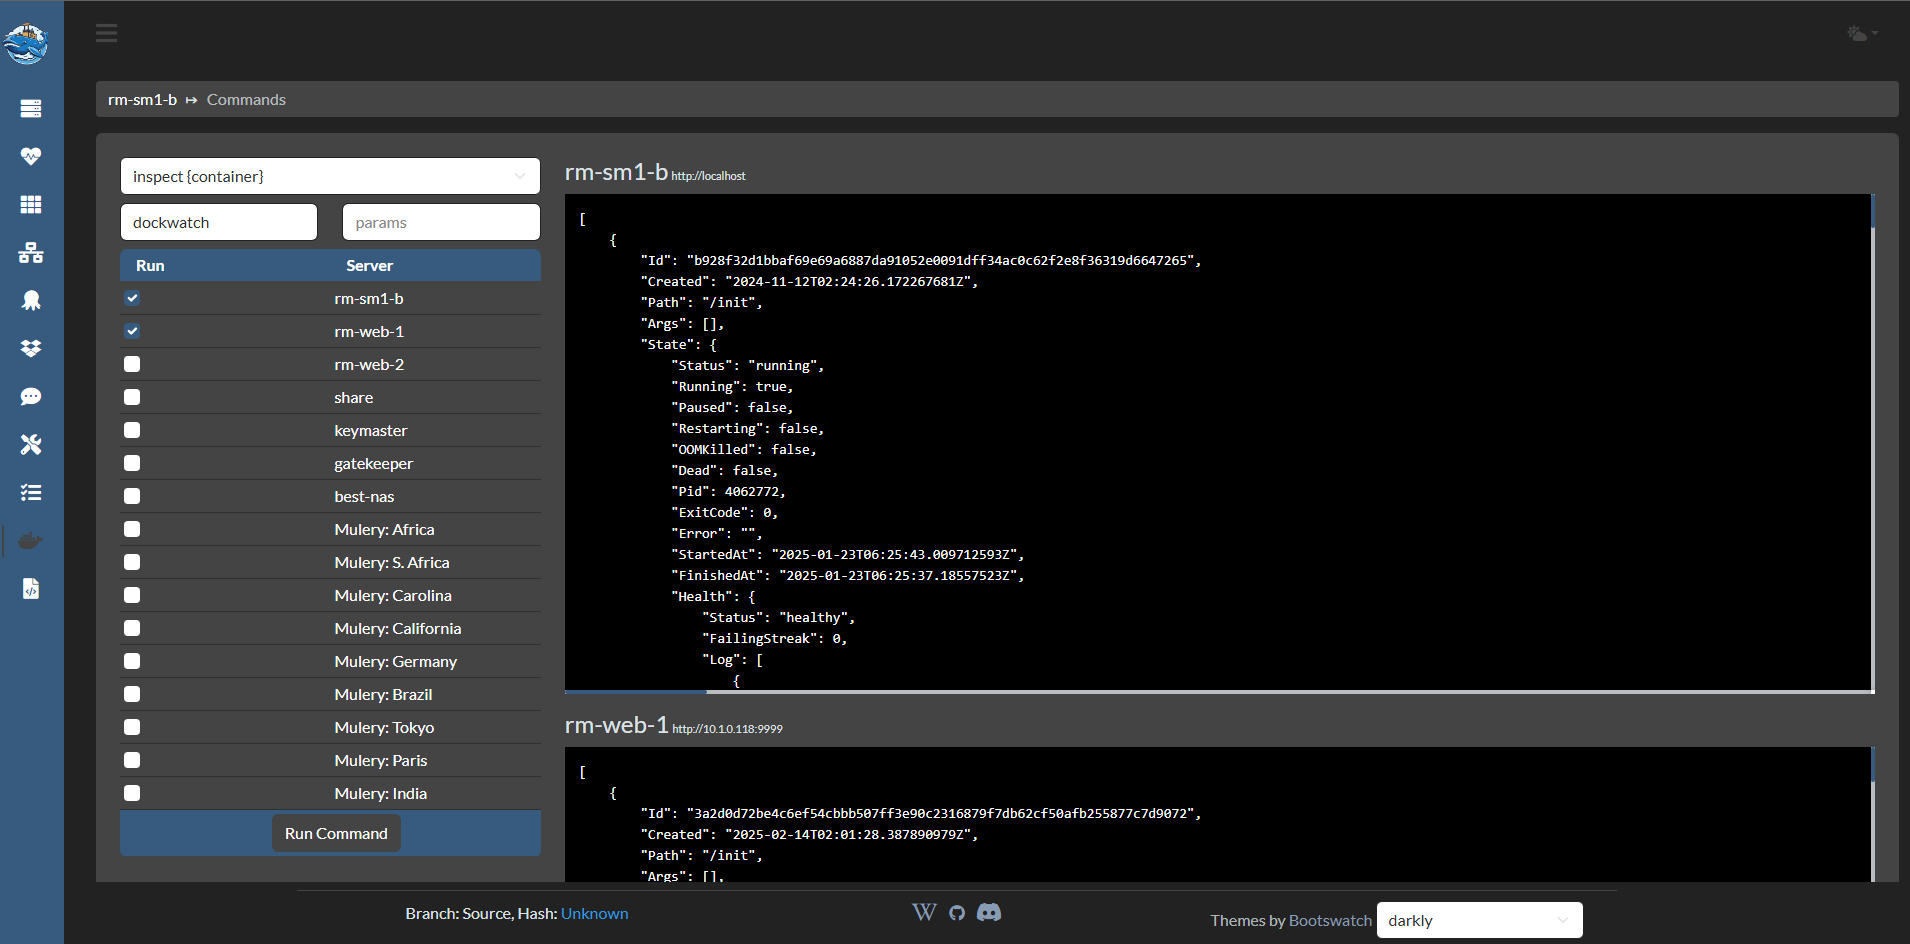
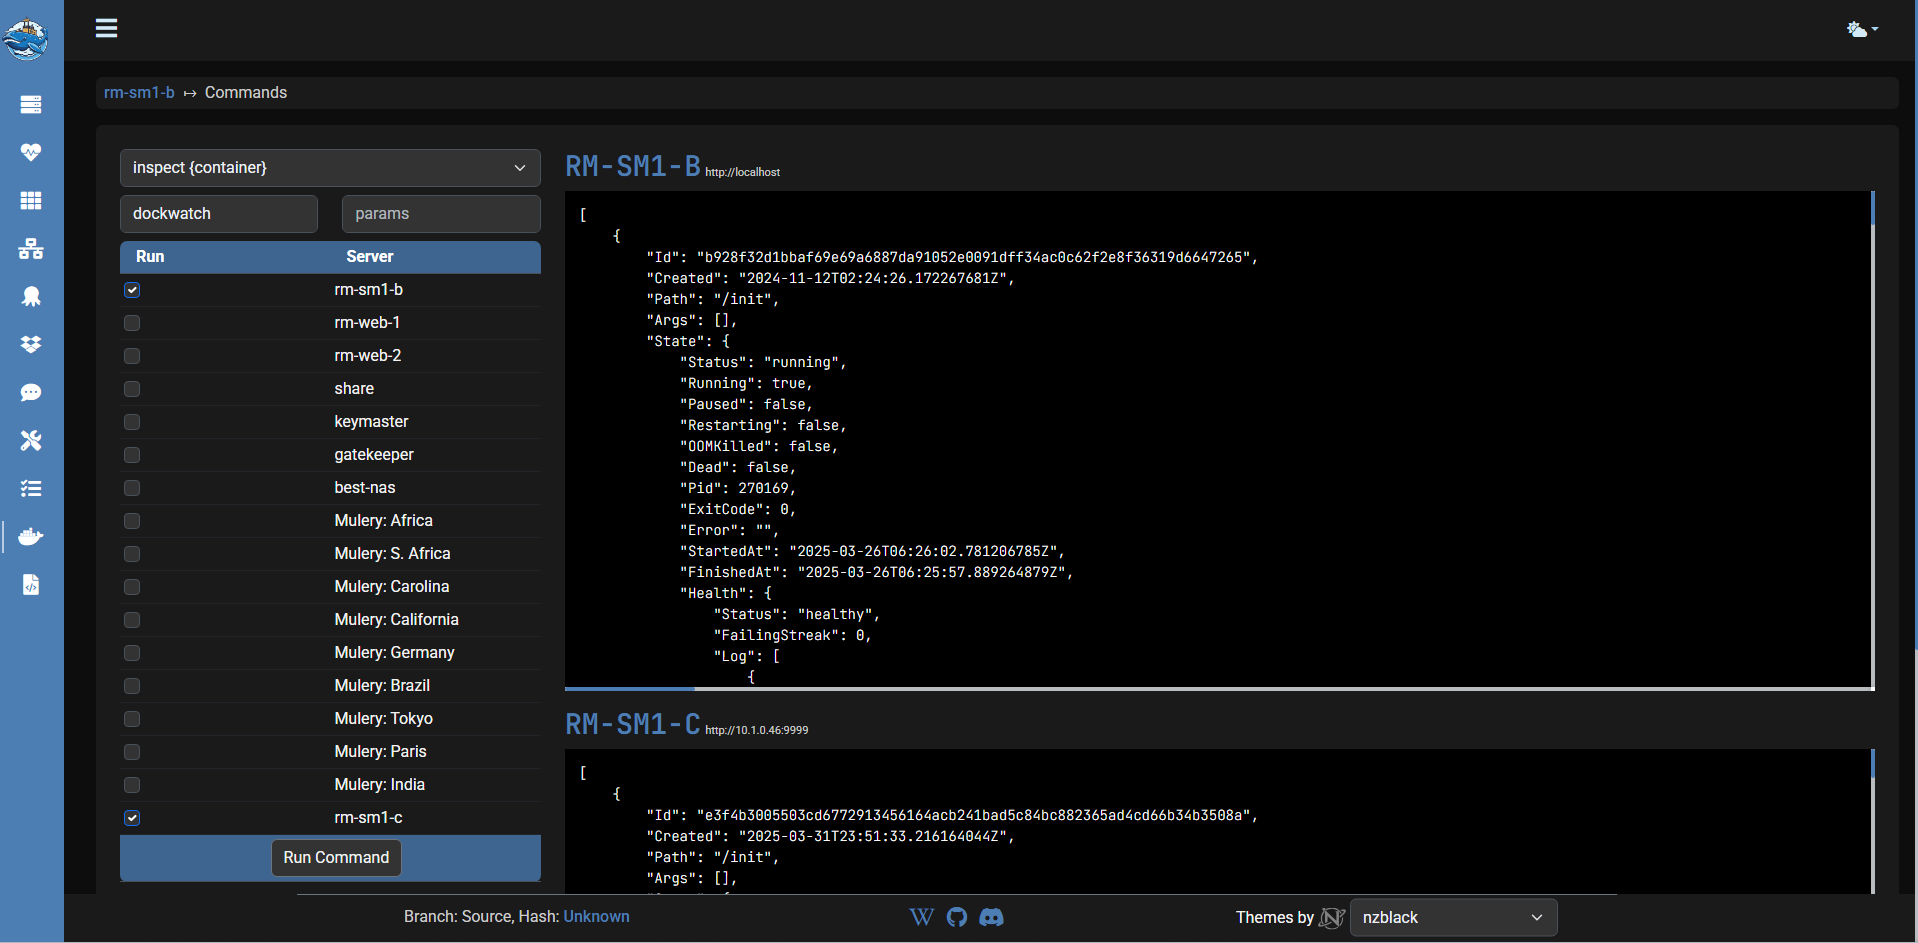
Update the images with nzxl's default theme
Add metrics endpoint

diff --git a/docs/index.md b/docs/index.md
@@ -24,7 +24,7 @@ If the project is useful for you, do us a favor and smash that star button on th
 
 If there is a feature you would like added or think you have found a bug, please join the discord and lets discuss it there in real time before doing a Github request. After we determine what to do (add a new feature or confirm the bug) we can move it to Github if necessary although most things can be fixed fast enough that it wont be needed.
 
-## Notifications
+## Notification options
 
 ### Triggers
 
@@ -66,22 +66,60 @@ Updates are applied on a container by container basis and use cron scheduling fo
 ## Screenshots
 
 !!! note
-
     These might differ slightly from time to time as the UI can change faster than the wiki might be updated.
 
 ### Interface
 
+#### Servers
+
 ![Servers](assets/screenshots/interface/servers.png)
+
+#### Overview
+
 ![Overview](assets/screenshots/interface/overview.png)
+
+#### Containers
+
 ![Containers](assets/screenshots/interface/containers.png)
+
+#### Container
+
 ![Container](assets/screenshots/interface/container.png)
+
+#### Container compose
+
+![ContainerCompose](assets/screenshots/interface/generate-compose.png)
+
+#### Networks
+
 ![Networks](assets/screenshots/interface/networks.png)
+
+#### Compose
+
 ![Compose](assets/screenshots/interface/compose.png)
+
+#### Orphans
+
 ![Orphans](assets/screenshots/interface/orphans.png)
+
+#### Notifications
+
 ![Notifications](assets/screenshots/interface/notifications.png)
+
+#### Settings
+
 ![Settings](assets/screenshots/interface/settings.png)
+
+#### Tasks
+
 ![Tasks](assets/screenshots/interface/tasks.png)
+
+#### Commands
+
 ![Commands](assets/screenshots/interface/commands.png)
+
+#### Logs
+
 ![Logs](assets/screenshots/interface/logs.png)
 
 ### Notifiarr notifications

diff --git a/docs/pages/misc/api.md b/docs/pages/misc/api.md
@@ -3,9 +3,10 @@
 Header `X-Api-Key:{apikey}`<br>
 Parameter `?apikey={apikey}`
 
-!!! example
+!!! example "Examples"
     ```
     curl -H "X-Api-Key:{apikey}" "http://{host}:9999/api/database/containers"
+    curl "http://{host}:9999/api/database/containers?apikey={apikey}"
     ```
 
 ## Responses
@@ -673,20 +674,29 @@ Error example:
     === "GET"
         No parameters
 
-## /api/stats/* - 2
+## /api/stats/* - 3
 
 ### <span style="display:none;">containers</span>
 
 ??? abstract "containers"
     Endpoint: `/api/stats/containers`<br>
-    Usage: Returns the container list used by dashboard apps
+    Usage: Returns the container list to be used by dashboard apps
     === "GET"
         No parameters
+
+### <span style="display:none;">metrics</span>
+
+??? abstract "metrics"
+    Endpoint: `/api/stats/metrics`<br>
+    Usage: Returns the metrics to be used by dashboard apps
+    === "GET"
+        No parameters
+
 
 ### <span style="display:none;">overview</span>
 
 ??? abstract "overview"
     Endpoint: `/api/stats/overview`<br>
-    Usage: Returns the overview list used by dashboard apps
+    Usage: Returns the overview list to be used by dashboard apps
     === "GET"
         No parameters
